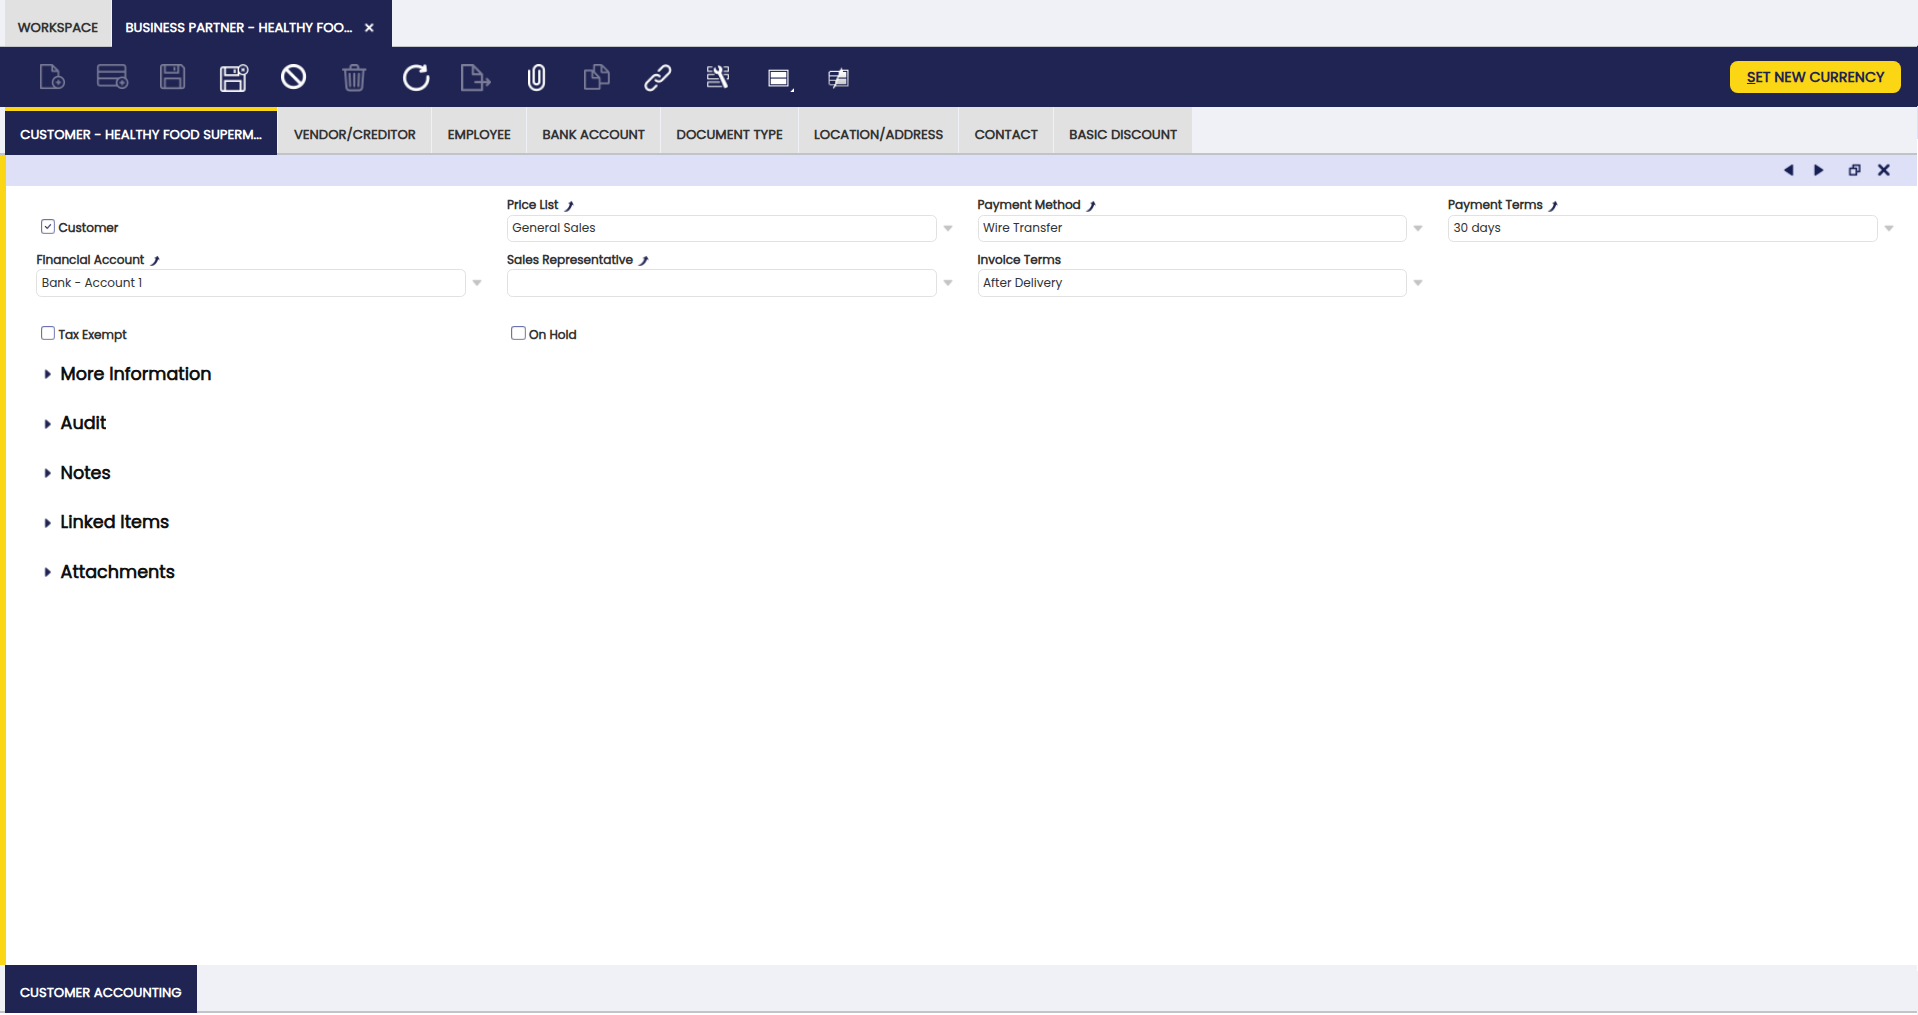
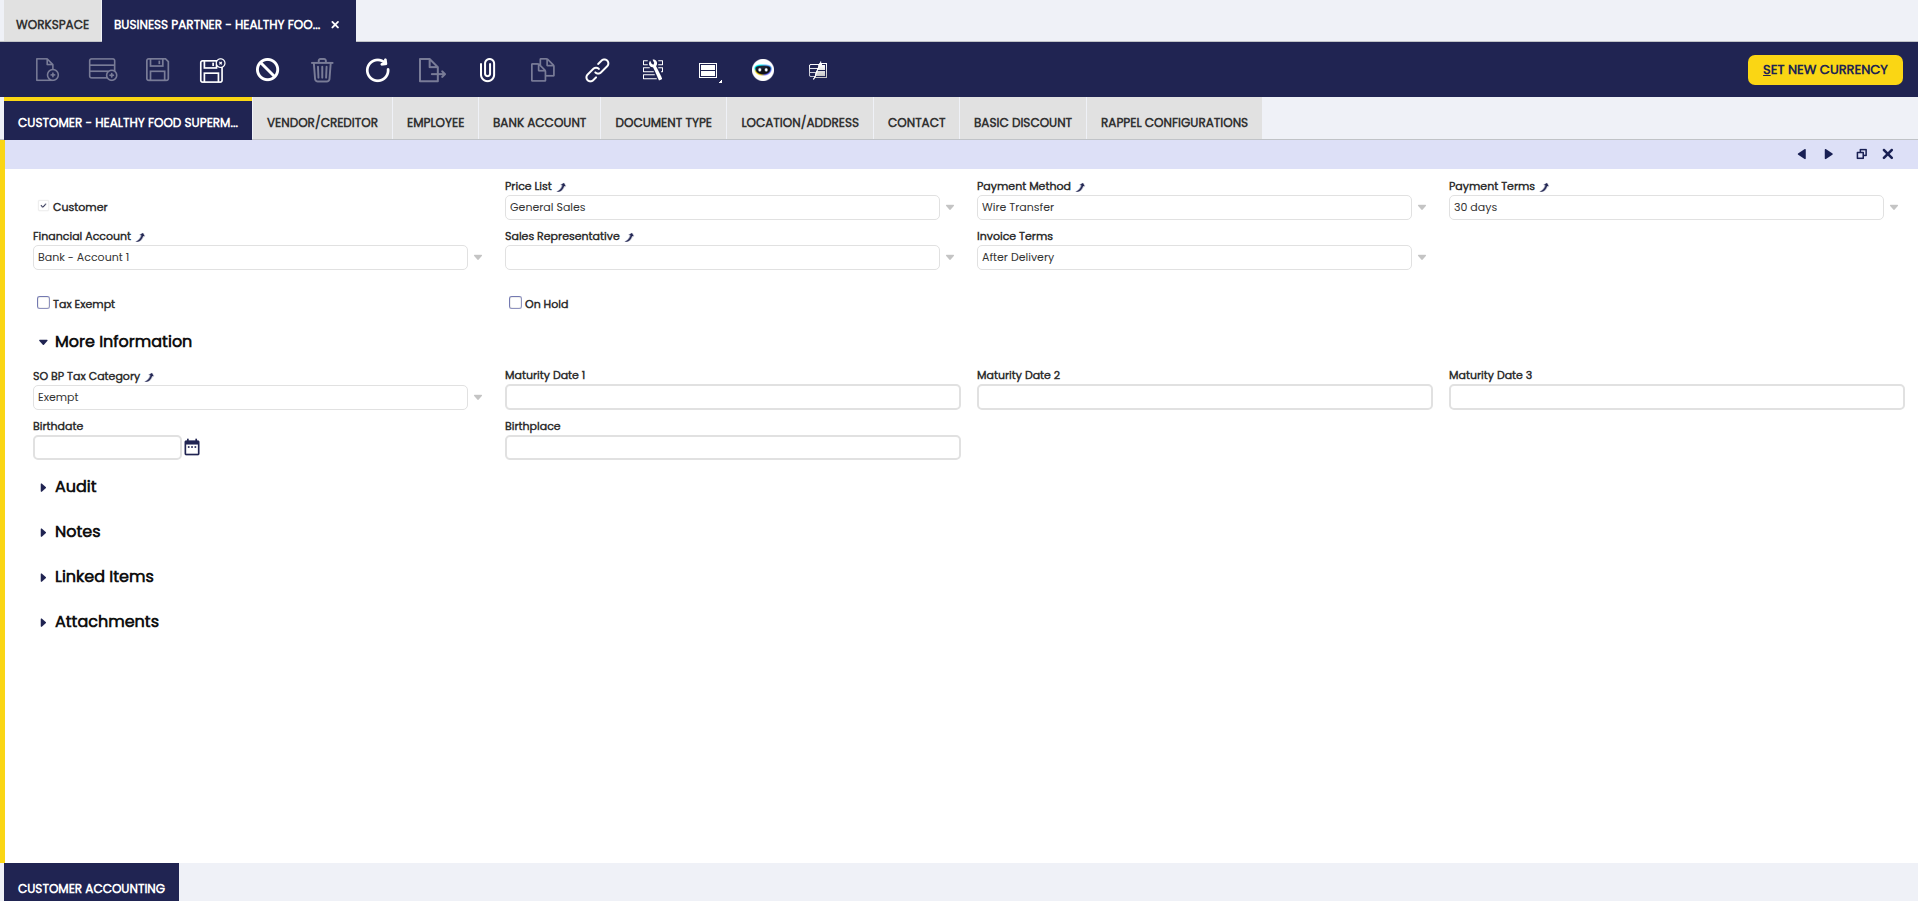
Feature ETP-2382: Edit existing information and replace screenshots.

diff --git a/docs/user-guide/etendo-classic/basic-features/master-data-management/master-data.md b/docs/user-guide/etendo-classic/basic-features/master-data-management/master-data.md
@@ -89,15 +89,15 @@ The **Set New Currency** process allows defining:
 
     ![](../../../../assets/drive/qMRCmdApUN-s9LYIxySdzxh9-vQezR1tP5kqzLUpO62BELBpiwE71zR3QJW9tn2RbSdVXCj5Po2IAXX5AzeBX4QkyQb6G6ns7jw4UTzPUMEeqUPYjfAjvO4jkMueDO_Ko1855ty312Mk3e2JPQ.png)
 
-At first, the currency shown in the Set New Currency window is business partner price list currency, in our example *USD*.
+Fields to note:
 
-Business partner's new currency can be entered in the field *Currency*, for instance *EUR*.
+- **Currency**: Business partner's new currency can be entered here, for instance *EUR*. At first, the currency shown in the Set New Currency window is business partner price list currency, in our example *USD*.
 
-DO WE KEEP THIS FORMAT? OR DO WE MAKE A LIST OF FIELDS?
+- **Set Amount**: Checkbox. If selected, Etendo will update the Business Partner’s balance with the amount entered in the Foreign Amount field, so they stay consistent with the new currency. 
 
-[+] Then, with the **Set amount** checkbox, you can                                                                                                                                                                  
+- **Foreign Amount**: Only shown if the **Set Amount** checkbox is selected. Here, Etendo allows the user to manually enter the equivalent amount in the new currency that will replace or update the Business Partner’s balance.
 
-The checkbox **Use default conversion rate** uses the conversion rate defined in [Conversion Rates](../general-setup/application.md#conversion-rates) window, to recalculate business partner balance from USD to EUR, in our case. If this check is not selected, a new field *Rate* is shown to allow entering a specific conversion rate.
+- **Use default conversion rate**: Checkbox. It uses the conversion rate defined in [Conversion Rates](../general-setup/application.md#conversion-rates) window, to recalculate business partner balance from USD to EUR, in our case. If this check is not selected, a new field *Rate* is shown to allow entering a specific conversion rate.
 
 Additionally, a business partner might have **available credit in a given currency**. If that is the case, Etendo informs the user because business partner available credit will have to be exchanged to the new currency, therefore it can be consumed in the new currency.
 
@@ -111,20 +111,49 @@ This process automatically creates three new payments, in case business partner 
 
 !!!Example
     Let us take as an **example** a business partner having a price list in EUR.
-    - This business partner has a current balance of 306.00 EUR and a generated credit of 100.00 EUR, which decreases its balance to 206.00 EUR.
-    - After that, **Set New Currency** process is run for this business partner, because its currency needs to change to USD.
-    - **Set New Currency** process informs us that there is available credit for the business partner in the old currency (EUR). That available credit needs to be exchanged to the new currency (USD), therefore a conversion rate needs to be used. In this example, system conversion rate is used, that is 1.13 EUR to USD.
-    - Once **Set New Currency** process ends, business partner:
 
-        - current balance shown changes to 232.78 USD (206.00 EUR \* 1.13 EUR/USD).
-        - currency shown is USD.
-        - and three new payments are created, as described above, to exchange available credit into the new currency.
+    - Price list currency: EUR
 
-    - After that, a new sales invoice is booked for the business partner in EUR, as the business partner price list is in EUR. Sales invoice total gross amount is 41.50 EUR.
-    - This new sales invoice, once booked, will change business partner balance to 279.68 USD, that is (sales invoice amount 41.50 EUR \* 1.13 EUR to USD) + 232.78 USD.
-    - After that, a new sales invoice for an amount of 100.00 USD is booked for the business partner. While completing this new sales invoice, a new window appears showing business partner USD credit available, in our case 100 EUR \* 1.13 EUR to USD = 113.00 USD.
+    - Current balance: 306.00 EUR
+
+    - Available credit: 100.00 EUR
+
+    Because the credit reduces the balance, the net balance is 206.00 EUR (306.00 – 100.00).
+
+    **Running Set New Currency**
+
+    The company decides that this Business Partner should now operate in USD, so the user runs the Set New Currency process and selects USD as the new currency.
+
+    Etendo detects that the partner still has available credit in EUR.
+    That credit must be converted into the new currency, so the system applies the conversion rate 1 EUR = 1.13 USD.
+
+    **What Etendo Does Automatically**
+
+    Once the process finishes:
+
+    - The Business Partner’s currency changes from EUR to USD.
+
+    - The current balance becomes 232.78 USD, calculated as 206.00 EUR × 1.13 = 232.78 USD
+
+    - Etendo also creates three automatic payments to properly move the available credit from EUR to USD, keeping accounting consistent.
+
+    **Future Transactions**
+
+    Now that the Business Partner’s currency is USD, let’s see what happens with new invoices:
+
+    - You create a new sales invoice in EUR (because the price list is still in EUR).
+
+        - Invoice total: 41.50 EUR
+
+        - Etendo converts it to USD: 41.50 × 1.13 = 46.90 USD
+
+    - The Business Partner’s new balance becomes: 232.78 + 46.90 = 279.68 USD
+
+    - Later, you create another sales invoice in USD for 100.00 USD. While completing it, Etendo shows that the partner has available credit in USD, converted from the old EUR credit: 100 EUR × 1.13 = 113.00 USD
 
     ![](../../../../assets/drive/fAiMfanae3I2XAvLdbf3yFYkZhAbN8Me-A2kv3uSF62Q3HaBTz9wyfXBL-22RDXeKgdrNxTLeLDnECldDFwjhkEG-m4Uzgc-JNUrtasuWPvrKKGeTmlRg-Lrc9wqtQDG17R-trrmm8EbG70bgg.png)
+
+    In short, the Set New Currency process updates the Business Partner’s currency and converts balances and credits to the new currency using the chosen rate, existing balances and available credit are recalculated so everything matches the new currency and future transactions, even if created in the old currency (EUR), will still be correctly converted and reflected in the Business Partner’s new currency (USD).
 
 
 ### Tabs and Subtabs
@@ -203,12 +232,6 @@ Fields to note:
 
 - **Sales Representative**: Here, the user can select a customer sales representative. A sales representative is an employee set as such.
 
-- **SO BP Tax Category**: This field can be found under the *More Information* section.  
-    You can use a business partner tax category to get that the sales documents created for a customer can only have a specific set of tax rates linked to that tax category.  
-    
-    !!!info
-        For more information, visit [Business Partner Tax Category](../financial-management/accounting/setup.md#business-partner-tax-category).
-
 - **On Hold**: This checkbox allows blocking a customer, therefore some specific documents cannot be fulfilled for it. If checked, the On Hold section is shown with the following setup, which can obviously be changed as required:
     - **Sales Order:** Blocked
     - **Goods Shipment:** Blocked
@@ -216,6 +239,24 @@ Fields to note:
     - **Payment In:** Not blocked
 
     Above defaulted configuration means that it is not possible to complete either a sales order, a goods shipment or a sales invoice for the customer, only receiving a payment is possible.
+
+**More information** section
+
+- **SO BP Tax Category**: This field can be found under the *More Information* section.  
+    You can use a business partner tax category to get that the sales documents created for a customer can only have a specific set of tax rates linked to that tax category.  
+    
+    !!!info
+        For more information, visit [Business Partner Tax Category](../financial-management/accounting/setup.md#business-partner-tax-category).
+
+- **Maturity Date 1**: It indicates the day of the month, the first deadline, that invoices are due.
+
+- **Maturity Date 2**: It indicates the day of the month, the second deadline, that invoices are due.
+
+- **Maturity Date 3**: It indicates the day of the month, the third deadline, that invoices are due. 
+
+- **Birthdate**: Data about the customer.
+
+- **Birthplace**: Data about the customer.
 
 **Customer Accounting**
 
@@ -483,6 +524,8 @@ The Advanced Bank Account Management field is introduced in the Location/Address
 !!! warning
     In case of having both a default bank account and a location with a defined bank account, when generating a new document, the location bank account is prioritized over the default one.
 
+![](../../../../assets/user-guide/etendo-classic/basic-features/master-data-management/master-data/location-address-abam.png)
+
 #### **Contact**
 
 Contact tab allows the user to add and configure the business partner contacts you deal with.
@@ -534,8 +577,9 @@ It is possible to enter as many **Discounts** as agreed with your business partn
 !!! info
     To be able to include this functionality, the Advanced Rappels module of the Sales Extensions Bundle must be installed. To do that, follow the instructions from the marketplace: [Sales Extensions Bundle](https://marketplace.etendo.cloud/#/product-details?module=22CF01FC620140A6AA92CF550EB8DA36){target="_blank"}. For more information about the available versions, core compatibility and new features, visit [Sales Extensions - Release notes](../../../../whats-new/release-notes/etendo-classic/bundles/sales-extensions/release-notes.md).
 
+Rappels are discounts based on the volume of consumption of a business partner in a given period of time. This functionality allows the user to configure and grant rappels to business partners.
 
-With this functionality, the user can find the tab “Rappel Configurations” in the business partners included in the Rappel configurations. Also, in the Business Partner window, the user is able to create rappels using the button **Create Rappel**.
+With this functionality, the tab “Rappel Configurations” is shown in the business partners included in the Rappel configurations. Also, in the Business Partner window, the user is able to create rappels using the button **Create Rappel**.
 
 ![bp_window.png](../../../../assets/legacy/bp_window.png)
 
@@ -557,7 +601,7 @@ When the rappel is created, a sales invoice is created automatically, as seen be
 Each time a rappel is granted to a business partner, a new sales invoice is automatically generated in order to show the amount of the discount. This invoice has a specific sequence to distinguish it from the rest, according to the options entered when configuring the sequence, and a negative amount since it is a discount. This invoice is in Draft status.
 
 !!! info
-    For more information, visit [Sales Invoice](../sales-management/transactions.md#sales-invoice).
+    For more information, visit [Sales Invoice](../sales-management/transactions.md#advanced-rappels).
 
 
 ## Business Partner Info
